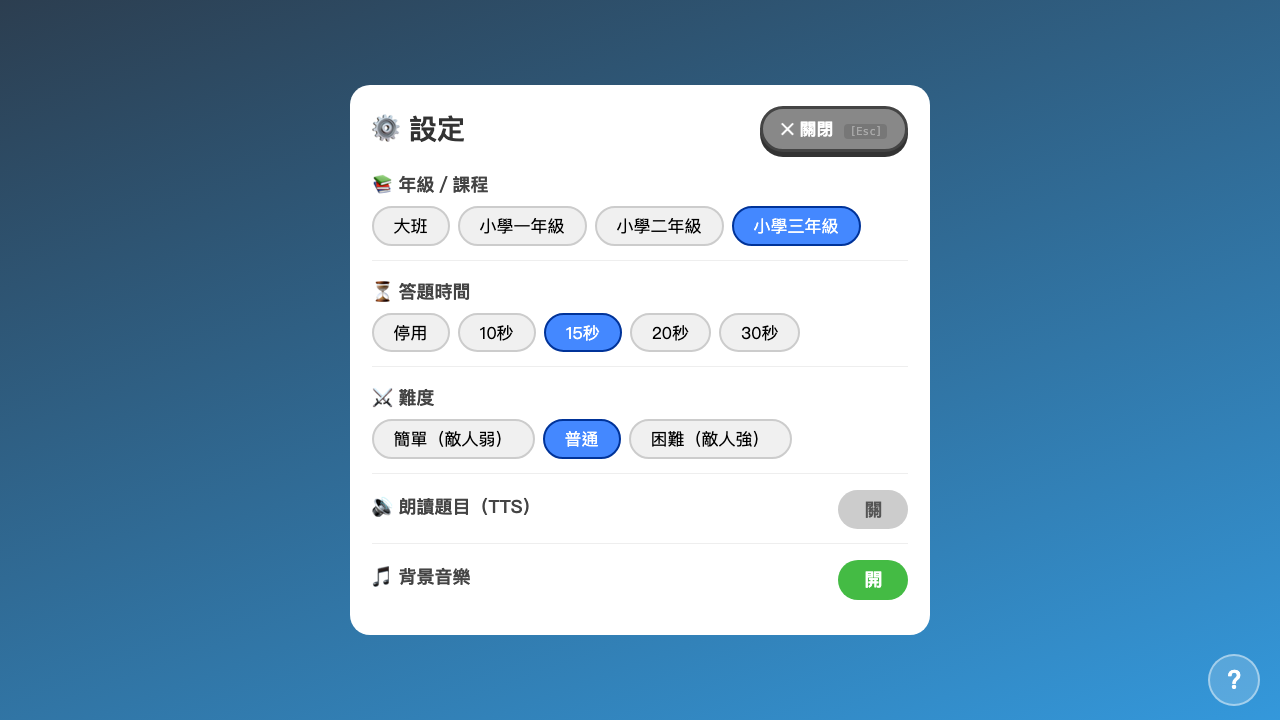
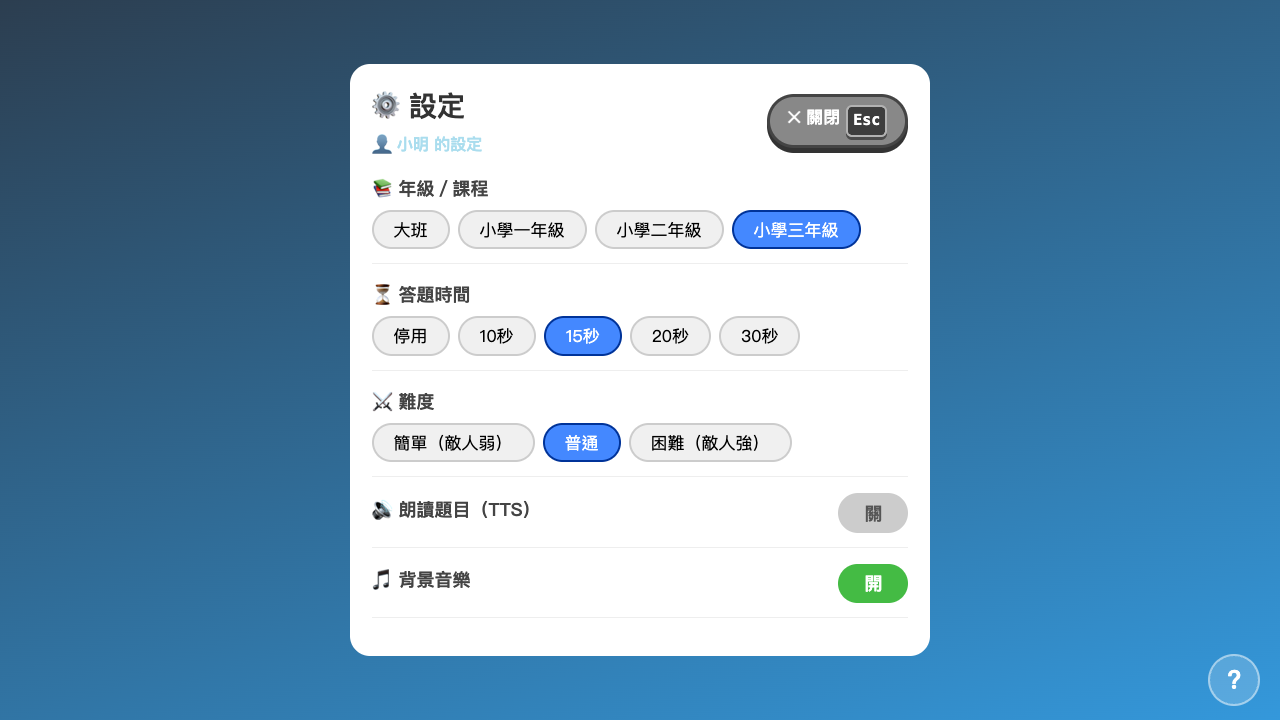
Update README, screenshots, and add start.sh
- README refreshed with all new features: 151 Pokémon, party swap,
  VS animation, win/lose flash, TTS button, keyboard hints, multi-user
- Screenshots updated (6 total, new 06_vs_intro.png added)
- start.sh: one-click launcher that kills port conflicts and opens browser

diff --git a/README.md b/README.md
@@ -4,7 +4,7 @@
 
 **繁體中文** | [English](#english)
 
-一款讓小學生在寶可夢對戰中學習國語、英文、數學的 HTML5 單頁遊戲。  
+一款讓小學生在寶可夢對戰中學習國語、英文、數學的 HTML5 單頁遊戲。
 A single-file HTML5 game where elementary students learn through Pokémon battles.
 
 ![Title Screen](docs/screenshots/01_title.png)
@@ -26,26 +26,32 @@ A single-file HTML5 game where elementary students learn through Pokémon battle
 
 ## 遊戲截圖
 
-| 設定畫面 | 輸入名字 |
+| 設定畫面 | 選擇隊伍 |
 |:---:|:---:|
-| ![Settings](docs/screenshots/02_settings.png) | ![Name Input](docs/screenshots/03_name_input.png) |
+| ![Settings](docs/screenshots/02_settings.png) | ![Party Select](docs/screenshots/04_party_select.png) |
 
-| 選擇隊伍 | 戰鬥畫面 |
+| 對戰 VS 動畫 | 戰鬥畫面 |
 |:---:|:---:|
-| ![Party Select](docs/screenshots/04_party_select.png) | ![Battle](docs/screenshots/05_battle.png) |
+| ![VS Intro](docs/screenshots/06_vs_intro.png) | ![Battle](docs/screenshots/05_battle.png) |
 
 ---
 
 ## 功能特色
 
 - 🎮 **寶可夢對戰系統** — 答題才能攻擊，答對造成傷害，答錯輪到敵人攻擊
-- 📚 **多年級題庫** — 大班 / 一年級 / 二年級 / 三年級，三科各 40–130 題
+- 📚 **多年級題庫** — 大班 / 一年級 / 二年級 / 三年級，三科共 971+ 題
 - 🔤 **兩種題型** — 選擇題（四選一）與是非題（正確 / 錯誤）
-- 👾 **三隻夥伴隊伍** — 升級、進化、倒下後下一場自動復活
+- 👾 **151 隻寶可夢可選** — 含神獸（超夢、夢幻、三神鳥），附搜尋篩選
+- 🔄 **換陣容功能** — 每場勝利後可更換隊伍，原有寶可夢保留等級
+- 📈 **進化進度顯示** — 戰鬥中即時顯示「還差幾級進化」
+- 🎬 **帥氣對戰動畫** — VS 開場動畫（雙方寶可夢滑入、VS 爆炸彈出）
+- ✨ **勝敗特效** — 擊倒金色閃光、全滅紅色震撼特效
 - 💾 **三欄存檔** — 透過 File System Access API 存為本地 `.json` 檔，不怕瀏覽器清除
+- 👤 **多用戶支援** — 三個存檔槽，各自獨立設定（年級、難度、計時等）
 - ⚙ **豐富設定** — 年級、答題計時、難度、語音朗讀（TTS）、背景音樂
-- ⌨ **鍵盤快捷鍵** — 全程可用鍵盤操作（詳見遊戲內 `？` 說明按鈕）
-- 📖 **情境說明** — 每個畫面都有繁體中文說明覆蓋層
+- 🔊 **喇叭按鈕** — 每題附朗讀按鈕（`R` 鍵），隨時重聽題目
+- ⌨ **完整鍵盤支援** — 全程可用鍵盤操作，快捷鍵一目了然
+- ❓ **情境說明** — 每個畫面都有繁體中文說明覆蓋層
 
 ---
 
@@ -54,18 +60,19 @@ A single-file HTML5 game where elementary students learn through Pokémon battle
 此遊戲使用 **File System Access API** 讀寫存檔，必須透過 HTTP 伺服器開啟（不支援 `file://` 協議）。
 
 ```bash
-# 方式一：Python（最簡單）
+# 方式一：雙擊 start.sh（macOS，最簡單）
+./start.sh
+
+# 方式二：Python（內建，不需安裝）
 cd pokemon-school
 python3 -m http.server 8080
 # 開啟瀏覽器：http://localhost:8080
 
-# 方式二：Node.js
+# 方式三：Node.js
 npx serve .
-
-# 方式三：VS Code Live Server 擴充功能
 ```
 
-> **建議瀏覽器**：Chrome / Edge（完整支援）、Firefox 111+ / Safari 15.2+（部分支援）  
+> **建議瀏覽器**：Chrome / Edge（完整支援）、Firefox 111+ / Safari 15.2+（部分支援）
 > 若瀏覽器不支援 File System Access API，遊戲會自動 fallback 為 localStorage。
 
 ---
@@ -75,21 +82,21 @@ npx serve .
 ```
 questions/
 ├── kinder/           # 大班
-│   ├── math.json     # 109 題（加減法、數數、形狀）
-│   ├── chinese.json  #  42 題（動物、顏色、家庭）
-│   └── english.json  #  42 題（字母、數字、顏色）
+│   ├── math.json     # 129 題（加減法、數數、形狀、應用題）
+│   ├── chinese.json  #  57 題（動物、顏色、家庭、反義詞）
+│   └── english.json  #  57 題（字母、數字、顏色、動物）
 ├── grade1/           # 小學一年級
-│   ├── math.json     #  87 題（20 以內加減、乘法入門）
-│   ├── chinese.json  #  40 題（反義詞、部首、季節）
-│   └── english.json  #  40 題（家人、問候語、顏色）
+│   ├── math.json     # 107 題（20 以內加減、應用題、規律）
+│   ├── chinese.json  #  55 題（反義詞、部首、季節、句型）
+│   └── english.json  #  55 題（家人、問候語、文法）
 ├── grade2/           # 小學二年級
-│   ├── math.json     # 133 題（九九乘法、三位數、時間）
-│   ├── chinese.json  #  40 題（近義詞、詞性、昆蟲分類）
-│   └── english.json  #  40 題（星期、be 動詞、教室物品）
+│   ├── math.json     # 153 題（九九乘法、三位數、時間、面積）
+│   ├── chinese.json  #  55 題（近義詞、詞性、成語）
+│   └── english.json  #  55 題（星期、be 動詞、教室物品）
 └── grade3/           # 小學三年級
-    ├── math.json     # 122 題（乘除法、幾何、大數計算）
-    ├── chinese.json  #  45 題（反義詞、部首、交通工具）
-    └── english.json  #  16 題（現在式、疑問詞）
+    ├── math.json     # 142 題（乘除法、幾何面積、大數計算）
+    ├── chinese.json  #  60 題（成語、部首、比喻、因果句型）
+    └── english.json  #  46 題（現在式、時態、問句詞、介系詞）
 ```
 
 每題格式：
@@ -105,6 +112,8 @@ questions/
   "q": "9 × 9 = 81，這是正確的嗎？", "opts": ["正確","錯誤"], "a": 0,
   "tags": ["multiplication","tf"] }
 ```
+
+外部來源題目可加上 `"source": "均一平台"` 欄位，遊戲會自動在題目畫面顯示出處連結。
 
 ---
 
@@ -125,11 +134,6 @@ python3 scrapers/generate_questions.py
 - 與現有題庫合併（不重複）
 - 更新 `meta.count`
 
-### 方式三：擴充腳本產生其他科目
-
-編輯 `scrapers/generate_questions.py`，參考 `extra_grade3_english()` 的寫法新增函式，  
-並在 `main()` 的 `generators` 字典中登記即可。
-
 ---
 
 ## 授權聲明
@@ -144,7 +148,8 @@ python3 scrapers/generate_questions.py
 - **允許**自由使用、修改與散布（供個人、教育、研究等非商業用途）
 - **要求**保留著作權聲明與來源連結
 - **禁止**將本專案或其衍生版本用於任何商業目的（付費服務、廣告盈利等）
-- 這樣可以防止有人直接複製遊戲上架或包裝成付費產品，同時仍對教育者和學生完全免費開放
+
+**Pokémon and all related names are trademarks of Nintendo / Game Freak. This project is not affiliated with or endorsed by Nintendo.**
 
 ---
 ---
@@ -162,12 +167,18 @@ python3 scrapers/generate_questions.py
 ### Features
 
 - 🎮 **Pokémon Battle System** — answer correctly to attack; wrong answers let the enemy strike back
-- 📚 **Multi-grade Question Banks** — 4 grades × 3 subjects, 756+ questions total
+- 📚 **Multi-grade Question Banks** — 4 grades × 3 subjects, 971+ questions total
 - 🔤 **Two Question Types** — multiple choice (4 options) and true/false
-- 👾 **Party of 3 Pokémon** — level up, evolve, and revive between battles
+- 👾 **All 151 Gen 1 Pokémon** — including legendaries (Mewtwo, Mew, legendary birds); searchable grid
+- 🔄 **Party Swap** — replace team members after each victory; existing Pokémon keep their levels
+- 📈 **Evolution Progress** — live "X levels until evolution" indicator in battle
+- 🎬 **Battle Intro Animation** — VS screen with sliding sprites and explosive VS text
+- ✨ **Win/Lose Effects** — gold flash on victory, red flash on defeat
 - 💾 **3-Slot Save System** — saves to a local `.json` file via File System Access API
+- 👤 **Multi-user Support** — 3 save slots with independent settings per user
 - ⚙ **Rich Settings** — grade, answer timer, difficulty, TTS narration, background music
-- ⌨ **Full Keyboard Support** — play without touching the mouse
+- 🔊 **TTS Replay Button** — speaker button (or `R` key) re-reads any question aloud
+- ⌨ **Full Keyboard Support** — large, clear key badges on every button
 - ❓ **Contextual Help** — Traditional Chinese help overlay on every screen
 
 ### Running the Game
@@ -175,12 +186,15 @@ python3 scrapers/generate_questions.py
 The game requires an HTTP server (File System Access API does not work over `file://`):
 
 ```bash
-# Python
+# macOS — double-click start.sh, or:
+./start.sh
+
+# Python (built-in, no install needed)
 cd pokemon-school && python3 -m http.server 8080
 # Open: http://localhost:8080
 ```
 
-**Recommended browsers**: Chrome / Edge (full support), Firefox 111+ / Safari 15.2+.  
+**Recommended browsers**: Chrome / Edge (full support), Firefox 111+ / Safari 15.2+.
 Falls back to localStorage if File System Access API is unavailable.
 
 ### Question Bank Format
@@ -196,6 +210,8 @@ subjects: math   | chinese | english
   "q": "7 × 8 = ?", "opts": ["48","54","56","63"], "a": 2,
   "tags": ["multiplication"] }
 ```
+
+Add `"source": "均一平台"` to any question to display a clickable attribution link in-game.
 
 To add questions, edit the JSON files directly or run the generator:
 
